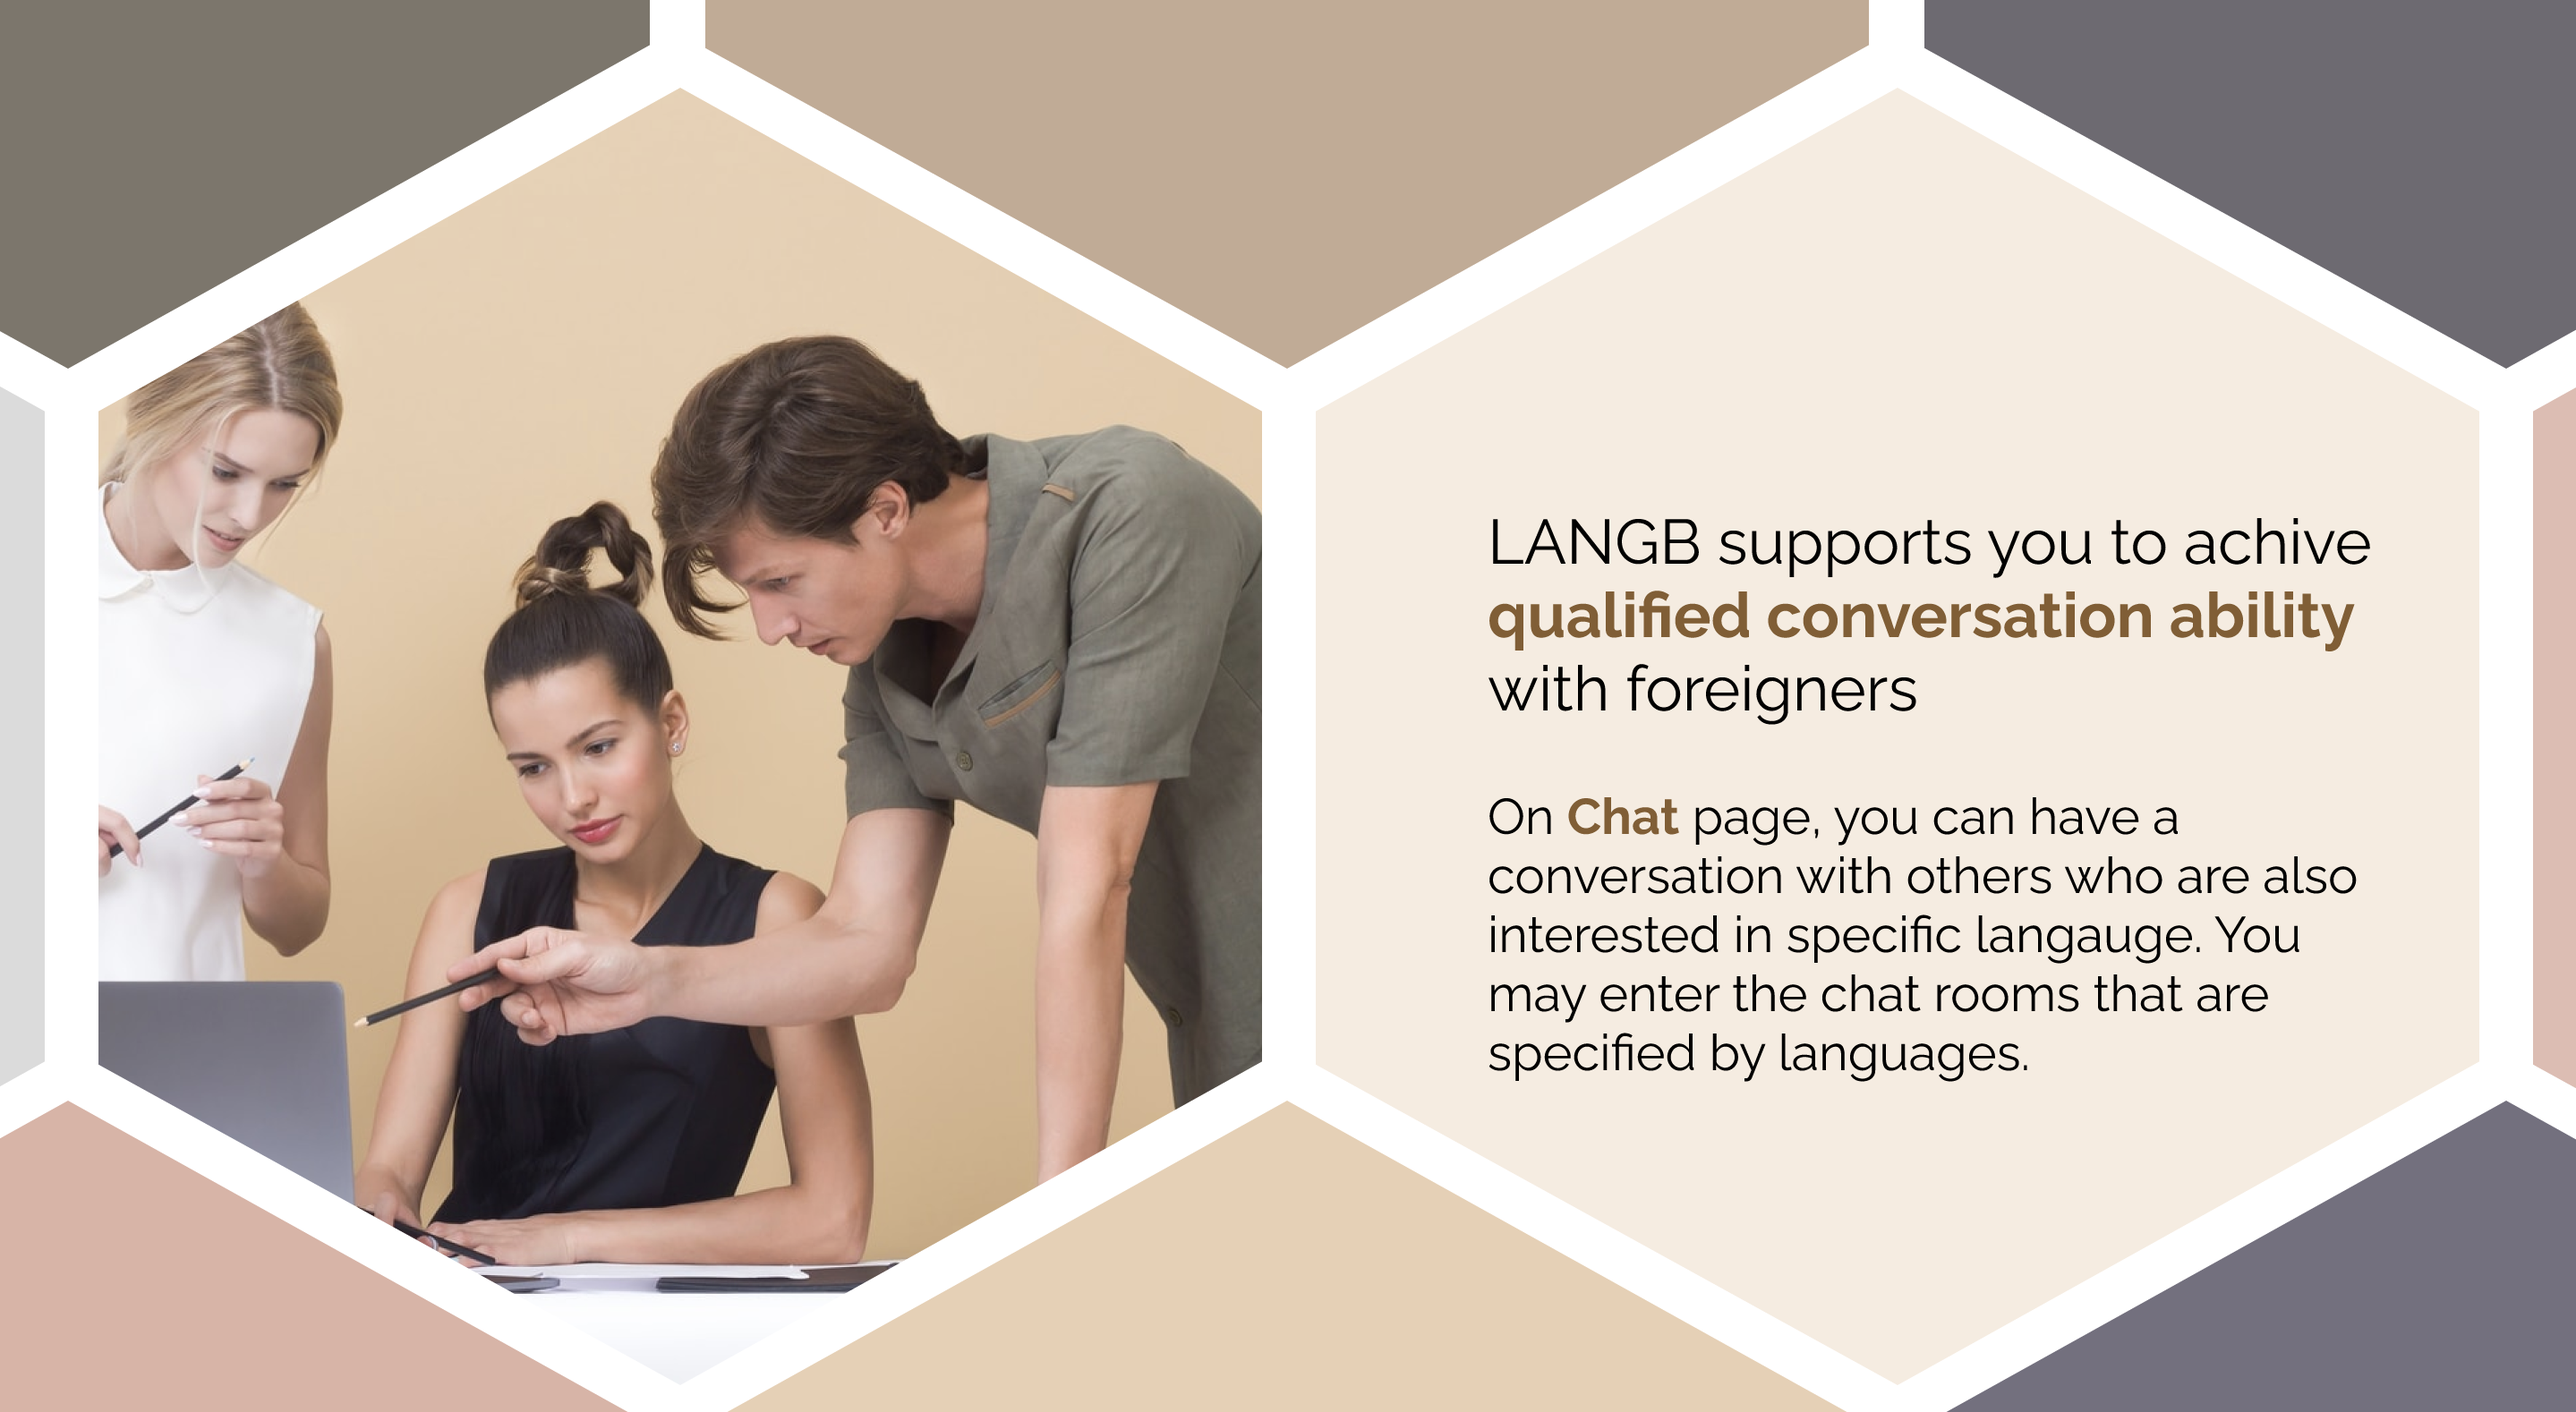
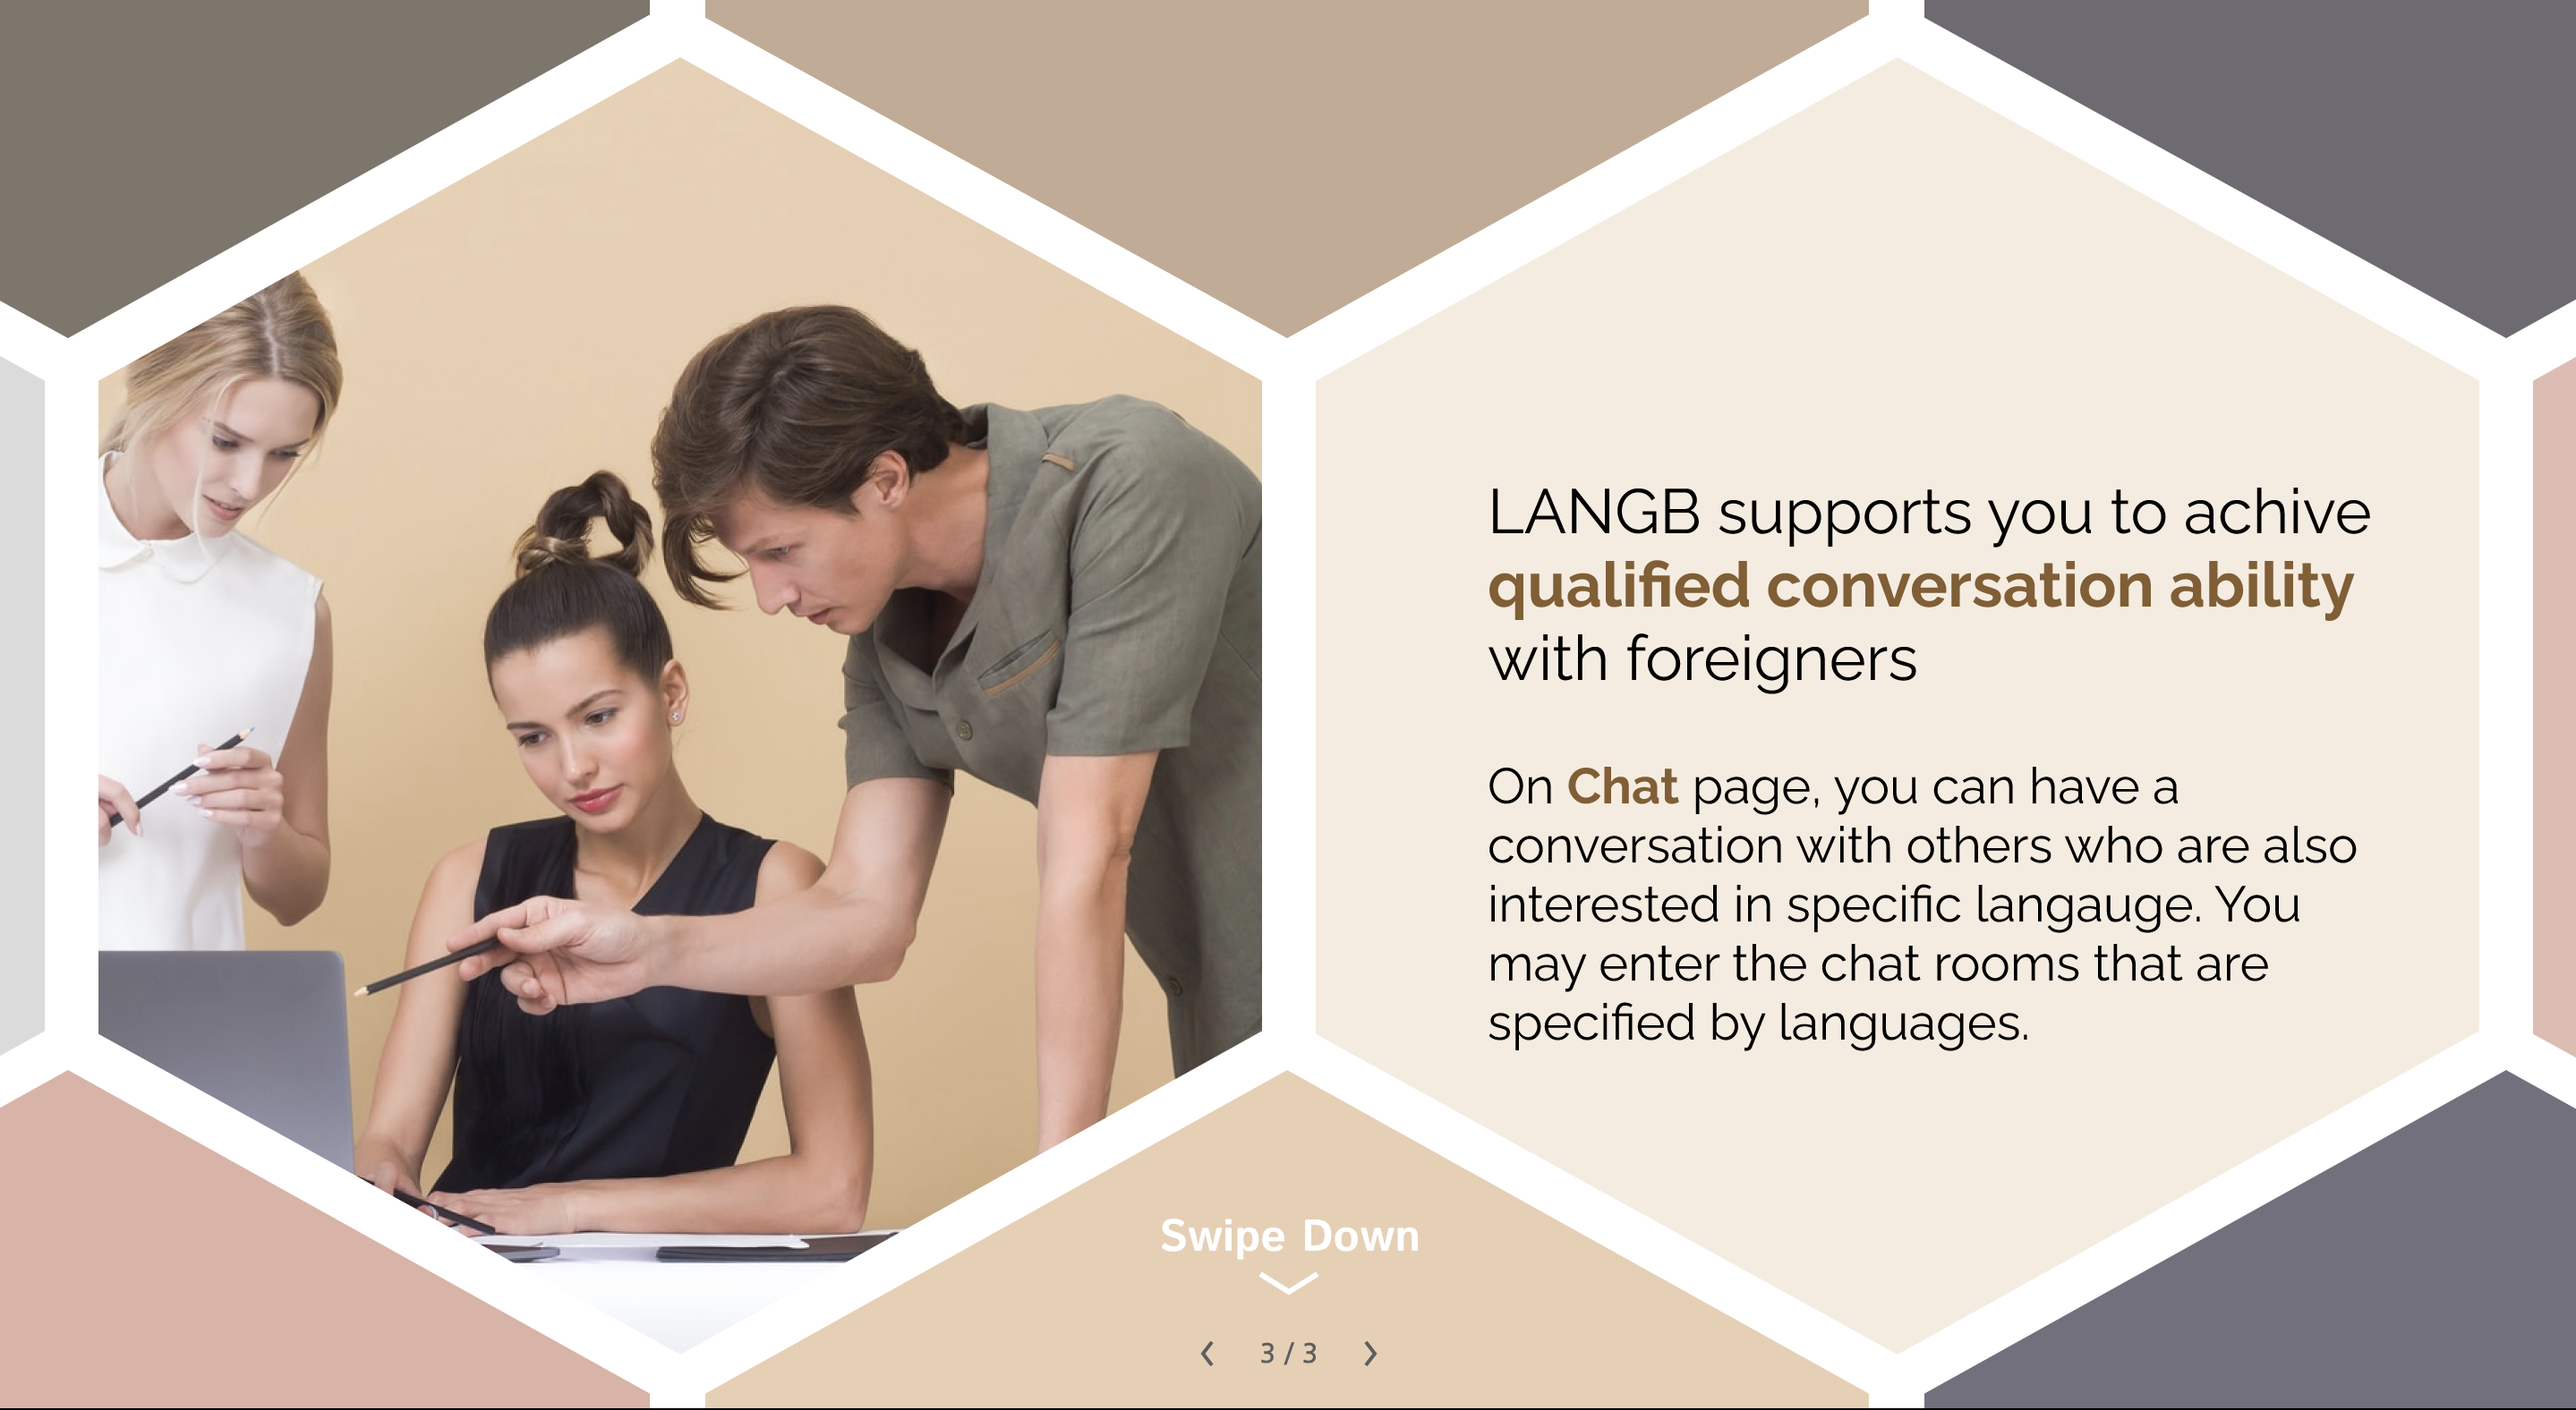
feature-#231

diff --git a/f6b2-client/pages/index.tsx b/f6b2-client/pages/index.tsx
@@ -1,8 +1,8 @@
-import Landing1 from "../src/components/commons/landing/landing1";
+import styled from "@emotion/styled";
 import Slider from "react-slick";
 import "slick-carousel/slick/slick.css";
 import "slick-carousel/slick/slick-theme.css";
-import styled from "@emotion/styled";
+import Landing1 from "../src/components/commons/landing/landing1";
 import Landing2 from "../src/components/commons/landing/landing2";
 
 const Wrapper = styled.div`
@@ -12,13 +12,22 @@ const Wrapper = styled.div`
   overflow-y: scroll;
   scroll-snap-type: y mandatory;
   scrollbar-width: none;
-  -ms-overflow-style: none;
+  /* 스크롤바 안보이게 설정 */
+  ::-webkit-scrollbar {
+    display: none; /* Chrome, Safari, Opera*/
+  }
+  -ms-overflow-style: none; /* IE and Edge */
+  scrollbar-width: none; /* Firefox */
 `;
 
 const Inner = styled.div`
-  scroll-snap-align: center;
+  scroll-snap-align: start;
   scrollbar-width: none;
-  -ms-overflow-style: none;
+  /* 스크롤바 안보이게 설정 */
+  ::-webkit-scrollbar {
+    display: none; /* Chrome, Safari, Opera*/
+  }
+  -ms-overflow-style: none; /* IE and Edge */
 `;
 
 const Slider1 = styled(Slider)`
@@ -31,18 +40,21 @@ const Slider1 = styled(Slider)`
   }
 `;
 
-const LogoLanding = styled.img`
-  width: 100%;
-  height: 100%;
-`;
+// const LogoLanding = styled.img`
+//   width: 100%;
+//   height: 100%;
+// `;
+
 const GardenLanding = styled.img`
   width: 100%;
   height: 100%;
 `;
+
 const CommunityLanding = styled.img`
   width: 100%;
   height: 100%;
 `;
+
 const ChatLanding = styled.img`
   width: 100%;
   height: 100%;
@@ -56,10 +68,12 @@ export default function Home() {
     slidesPerRow: 1,
     slidesToScroll: 1,
   };
+
   return (
     <Wrapper>
       <Inner>
-        <LogoLanding src="/landing/logo.png" />
+        {/* <LogoLanding src="/landing/logo.png" /> */}
+        <Landing2 />
       </Inner>
       <Inner>
         <Slider1>
@@ -74,38 +88,3 @@ export default function Home() {
     </Wrapper>
   );
 }
-
-// import styled from "@emotion/styled";
-
-// const Wrapper = styled.div`
-//   /* position: relative; */
-//   z-index: 1;
-//   width: 100vw;
-//   height: 100vh;
-// `;
-
-// const Video = styled.video`
-//   /* position: relative; */
-//   z-index: 2;
-//   width: max-content;
-//   width: 100%;
-//   height: 100%;
-//   /* width: 450px; */
-//   object-fit: fill;
-// `;
-
-// const Btn = styled.button`
-//   /* position: absolute; */
-//   z-index: 1000;
-//   width: 100px;
-// `;
-
-// export default function Home() {
-//   return (
-//     <Wrapper>
-//       <Video muted autoPlay loop src="/landing/landing.mp4">
-//       </Video>
-//       <Btn>버튼</Btn>
-//     </Wrapper>
-//   );
-// }

diff --git a/f6b2-client/src/components/commons/landing/landing1.tsx b/f6b2-client/src/components/commons/landing/landing1.tsx
@@ -1,5 +1,6 @@
 import styled from "@emotion/styled";
 import { keyframes } from "@emotion/react";
+import { useRouter } from "next/router";
 
 const hexaFade = keyframes`
   0% {
@@ -29,8 +30,28 @@ const textScale = keyframes`
     opacity: 1;
     text-shadow: 15px 30px 6px rgba(0, 0, 0, 0.25);
   }
+`;
 
-  `;
+const explore = keyframes`
+  0% {
+    color: white;
+    transform: scale(1);
+    opacity: 0.5;
+    text-shadow: 15px 30px 6px rgba(0, 0, 0, 0.25);
+  }
+  50% {
+    color: white;
+    transform: scale(1.05);
+    opacity: 1;
+    text-shadow: 15px 30px 6px rgba(0, 0, 0, 0.25);
+  }
+  100% {
+    color: white;
+    transform: scale(1);
+    opacity: 0.5;
+    text-shadow: 15px 30px 6px rgba(0, 0, 0, 0.25);
+  }
+`;
 
 // 랜딩 전체 배경
 const Main = styled.div`
@@ -99,8 +120,6 @@ const Hexa1 = styled.div`
   );
   margin-bottom: calc(var(--mv) - var(--vc));
   animation: ${hexaFade} 3s;
-
-  /* animation-delay: (2random () * 1s); */
 `;
 
 // 검정 육각형
@@ -149,15 +168,44 @@ const Text = styled.div`
   z-index: 1;
 `;
 
+const MoveGarden = styled.div`
+  margin-top: 600px;
+  /* padding-left: 550px; */
+  display: flex;
+  justify-content: center;
+  align-items: center;
+  /* 아래는 변경하지 말 것 */
+  width: 100%;
+  height: 50px;
+  /* white-space: pre; */
+  font-size: 30px;
+  font-family: sans-serif;
+  font-weight: 700;
+  text-align: center;
+  color: #fff;
+  inset: 0;
+  /* 내가 추가 */
+  text-shadow: 5px 5px 5px rgba(0, 0, 0, 0.25);
+  animation: ${explore} 2s 2s linear infinite;
+  opacity: 0;
+  position: absolute;
+  z-index: 1;
+  cursor: pointer;
+`;
+
 export default function Landing1() {
+  const router = useRouter();
+  const onClickMoveToGarden = () => {
+    router.push("/garden");
+  };
+
   return (
     <Main>
       <Container style={{ animationDelay: "0.3" }}>
         <Text>BUILD YOUR HIVE</Text>
+        <MoveGarden onClick={onClickMoveToGarden}>Click to explore</MoveGarden>
         {/* row1 */}
-        <Hexa1
-        // style={{ animationName: "hexaFade", animationDelay: "0.3" }}
-        ></Hexa1>
+        <Hexa1></Hexa1>
         <Hexa1></Hexa1>
         <Hexa2></Hexa2>
         <Hexa1></Hexa1>

diff --git a/f6b2-client/src/components/commons/landing/landing2.tsx b/f6b2-client/src/components/commons/landing/landing2.tsx
@@ -1,15 +1,59 @@
 import styled from "@emotion/styled";
+import { keyframes } from "@emotion/react";
+
+const textScale = keyframes`
+  0% {
+    color: white;
+    transform: scale(1);
+    opacity: 0;
+    text-shadow: 15px 30px 6px rgba(0, 0, 0, 0.25);
+  }
+  50% {
+    color: white;
+    transform: scale(1);
+    opacity: 1;
+    text-shadow: 15px 30px 6px rgba(0, 0, 0, 0.25);
+  }
+  100% {
+    color: white;
+    transform: scale(1);
+    opacity: 0;
+    text-shadow: 15px 30px 6px rgba(0, 0, 0, 0.25);
+  }
+`;
 
 const Wrapper = styled.div`
   width: 100vw;
   height: 100vh;
   margin: none;
+  position: relative;
 `;
+const ImgWrapper = styled.div``;
+
+const LogoLanding = styled.img`
+  width: 100%;
+  height: 100%;
+`;
+
+const SwipeWrapper = styled.div`
+  position: absolute;
+  text-align: center;
+  width: 100%;
+  top: 90%;
+  animation: ${textScale} 2s infinite;
+`;
+
+const Swipe = styled.img``;
 
 export default function Landing2() {
   return (
     <Wrapper>
-      <div>될만도..?</div>
+      <ImgWrapper>
+        <LogoLanding src="/landing/logo.png" />
+      </ImgWrapper>
+      <SwipeWrapper>
+        <Swipe src="/landing/swipe.png" />
+      </SwipeWrapper>
     </Wrapper>
   );
 }
